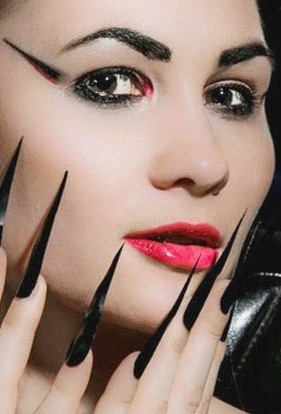
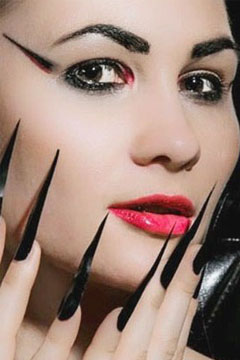
new photos offer

diff --git a/offer.html b/offer.html
@@ -34,17 +34,17 @@
 	<div id="offer_left"> 
 		<a href="offer_makeup.html">MAKE-UP</a>
 		<br><br>
-		<a href="offer_makeup.html"><img src="styllink.png" style="height:360px"></a>
+		<a href="offer_makeup.html"><img src="galeria/offer_makeup.jpg" style="height:360px"></a>
 	</div> 
 	<div id="offer_mid"> 
 		<a href="offer_styl.html">STYLIZACJA</a>
 		<br><br>
-		<a href="offer_styl.html"><img src="makeuplink.png" style="height:360px"></a>
+		<a href="offer_styl.html"><img src="galeria/offer_styl.jpg" style="height:360px"></a>
 	</div>   
 	<div id="offer_right"> 
 		<a href="offer_fotos.html">SESJE-FOTO</a>
 		<br><br>
-		<a href="offer_fotos.html"><img src="makeuplink.png" style="height:360px"></a>
+		<a href="offer_fotos.html"><img src="galeria/offer_sesje.jpg" style="height:360px"></a>
 	</div>  
 
 </div>  

diff --git a/offer_fotos.html b/offer_fotos.html
@@ -56,7 +56,7 @@
 <hr>
    
 <div id="stopka"> 
-	<img src="fb.png" >
+	<div class="fb-like" data-href="http://www.facebook.com/monacreating" data-send="false" data-width="450" data-show-faces="false" data-font="verdana" data-action="recommend"></div>
 </div>    
     
 </body></html>

diff --git a/style.css b/style.css
@@ -197,7 +197,7 @@ padding: 46px;
 	font-size: 31px;
 	float: right;
 	text-align: center;
-	width: 33%;
+	width: 34%;
 	margin: 0 0 0 0;
 	display: inline;
 	
